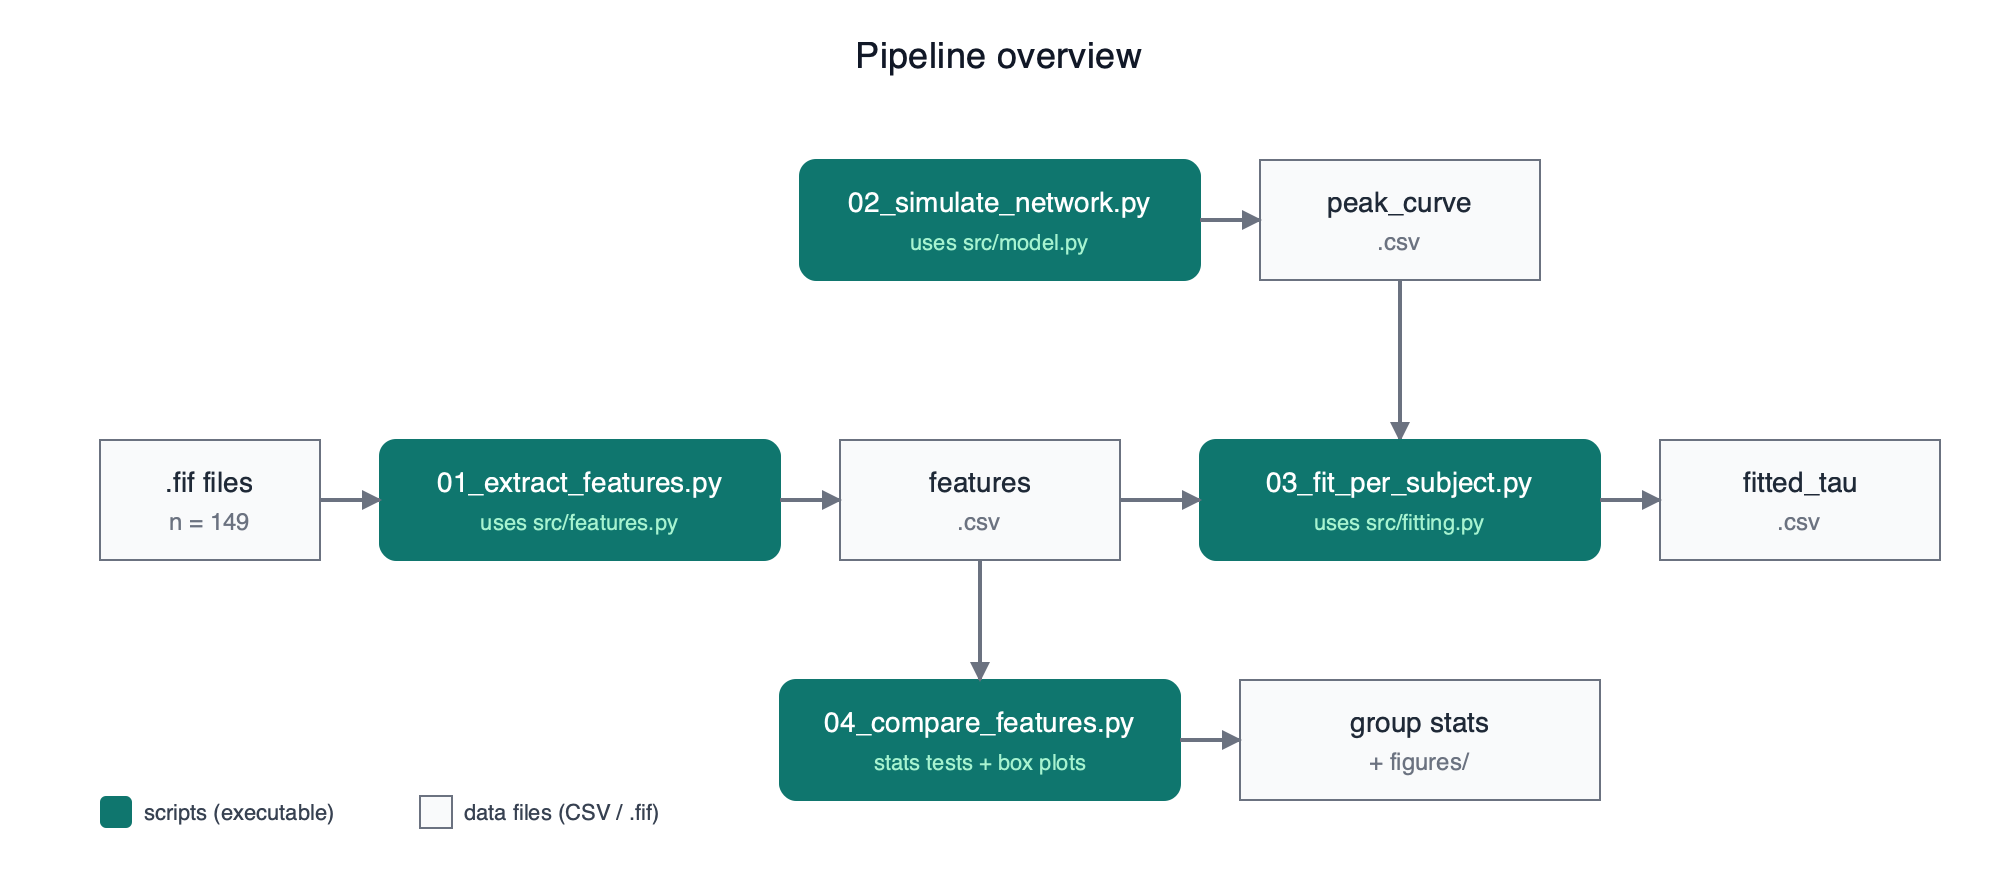
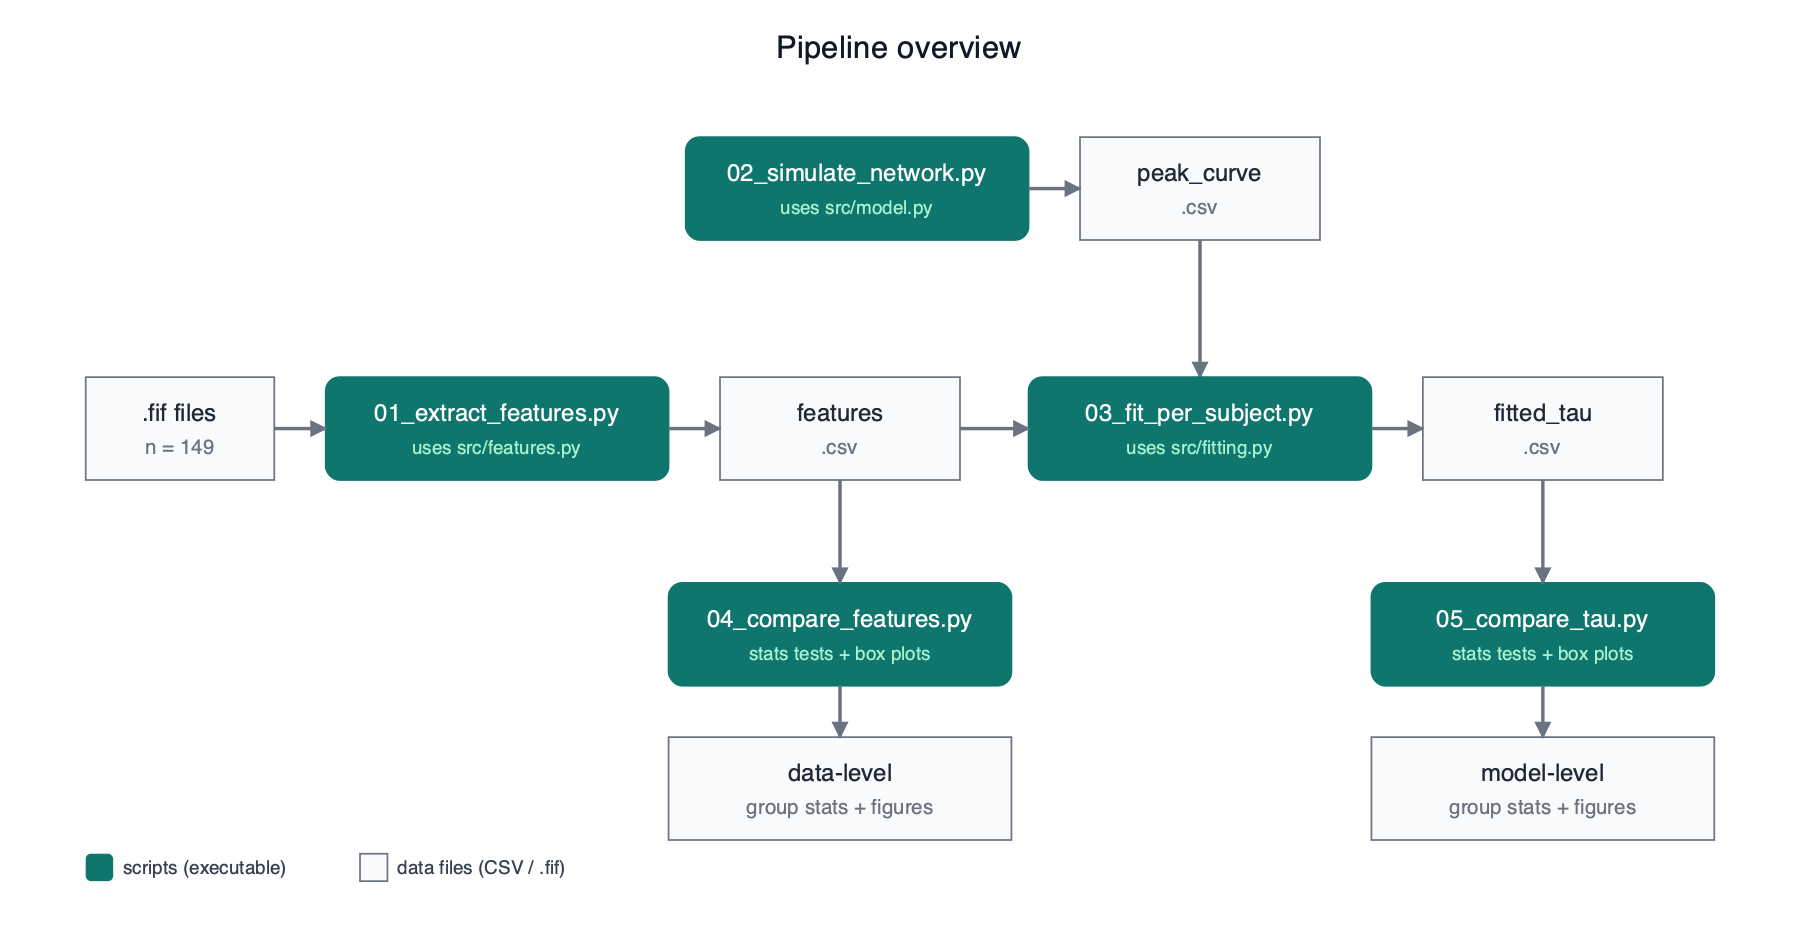
Add 05_compare_tau (model-level group test) to pipeline docs
The pipeline.svg figure already showed this branch, but the README
ASCII diagram and the scripts/ README table were missing it. Now
they all describe the same five-script pipeline.

Also regenerated pipeline.png at 1800x926 (down from 2100x1080) so
it stays under the 2000px image-size limit some downstream tools
have.

diff --git a/README.md b/README.md
@@ -56,20 +56,21 @@ Three branches share the same `features.csv` extracted from raw EEG:
                                 |
                                 v
 .fif --> 01_extract_features.py --> features.csv --> 03_fit_per_subject.py --> fitted_tau.csv
-         (uses src/features.py)            |          (uses src/fitting.py)
-                                           |
-                                           v
-                                  04_compare_features.py
-                                  (stats + box plots)
-                                           |
-                                           v
-                                  group stats + figures/
+         (uses src/features.py)            |          (uses src/fitting.py)            |
+                                           v                                           v
+                                  04_compare_features.py                       05_compare_tau.py
+                                  (data-level stats)                           (model-level stats)
+                                           |                                           |
+                                           v                                           v
+                                  group_comparison.csv                         group_comparison_tau.csv
+                                  + box plots                                  + box plots
 ```
 
 - `01_extract_features.py` reads the raw `.fif` files and writes `results/features.csv` (per-subject alpha peak frequency + relative band powers).
 - `02_simulate_network.py` runs the Wilson-Cowan network across a grid of tau_I values, writes `results/peak_curve.csv` (tau_I to simulated peak frequency lookup).
 - `03_fit_per_subject.py` joins `features.csv` and `peak_curve.csv` to assign each subject a personal tau_I, writes `results/fitted_tau.csv`.
 - `04_compare_features.py` runs group statistics on `features.csv` (data-level hypothesis test, independent of model).
+- `05_compare_tau.py` runs group statistics on `fitted_tau.csv` (model-level hypothesis test, expressed in terms of the model parameter).
 
 ## Folders
 

diff --git a/scripts/README.md b/scripts/README.md
@@ -10,11 +10,13 @@ Numbered end-to-end pipeline scripts. Each one runs from the command line and pr
 | `02_simulate_network.py` | (no input, runs the model) | `results/peak_curve.csv` | done |
 | `03_fit_per_subject.py` | `results/features.csv` and `results/peak_curve.csv` | `results/fitted_tau.csv` | TBD |
 | `04_compare_features.py` | `results/features.csv` | `results/group_comparison.csv` + box plots | done |
+| `05_compare_tau.py` | `results/fitted_tau.csv` | `results/group_comparison_tau.csv` + box plots | TBD |
 
 `features.csv` columns: `subject_id, group, alpha_peak_hz, alpha_power, theta_power, beta_power`
 (Powers are RELATIVE band powers, i.e. band integral divided by total power in 1-45 Hz. Computed on the average PSD over posterior channels O/PO/P.)
 `peak_curve.csv` columns: `tau_I_ms, simulated_peak_hz`
 `fitted_tau.csv` columns: `subject_id, group, fitted_tau_ms`
+`group_comparison.csv` and `group_comparison_tau.csv` columns: `feature, n_Control, n_PD, median_Control, median_PD, median_diff, u_statistic, p_value, rank_biserial`
 
 ## Conventions
 